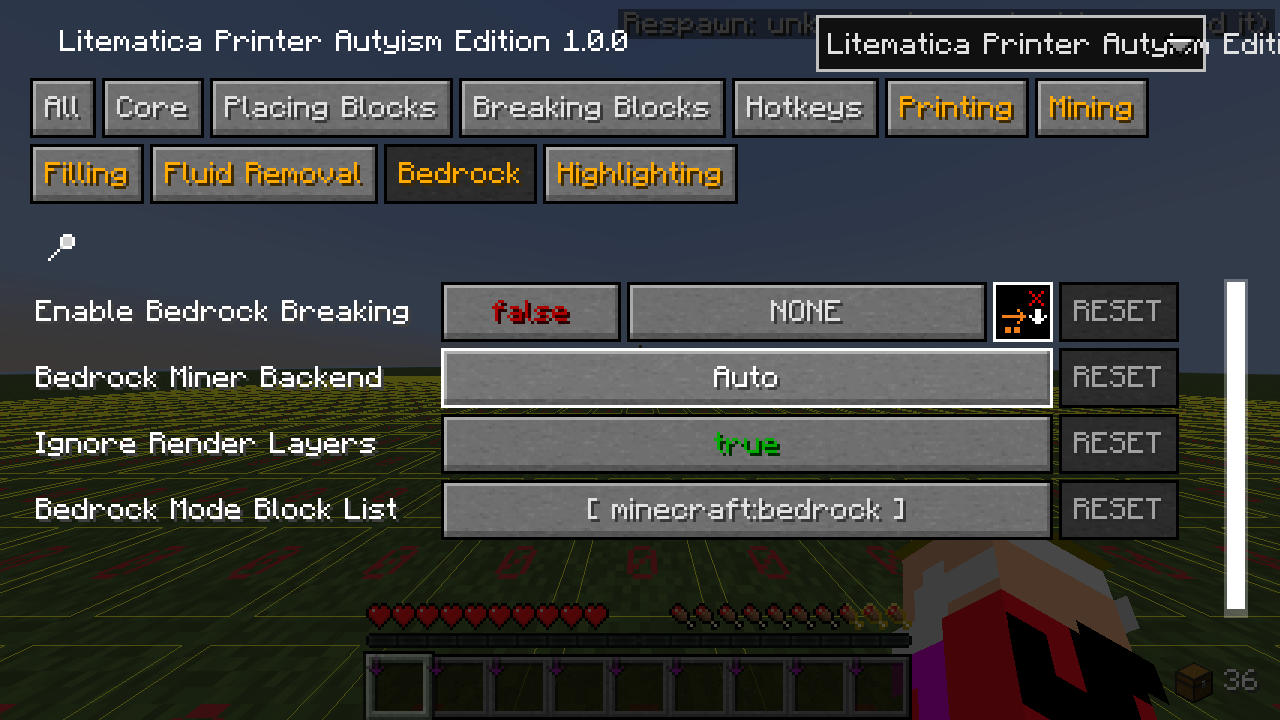
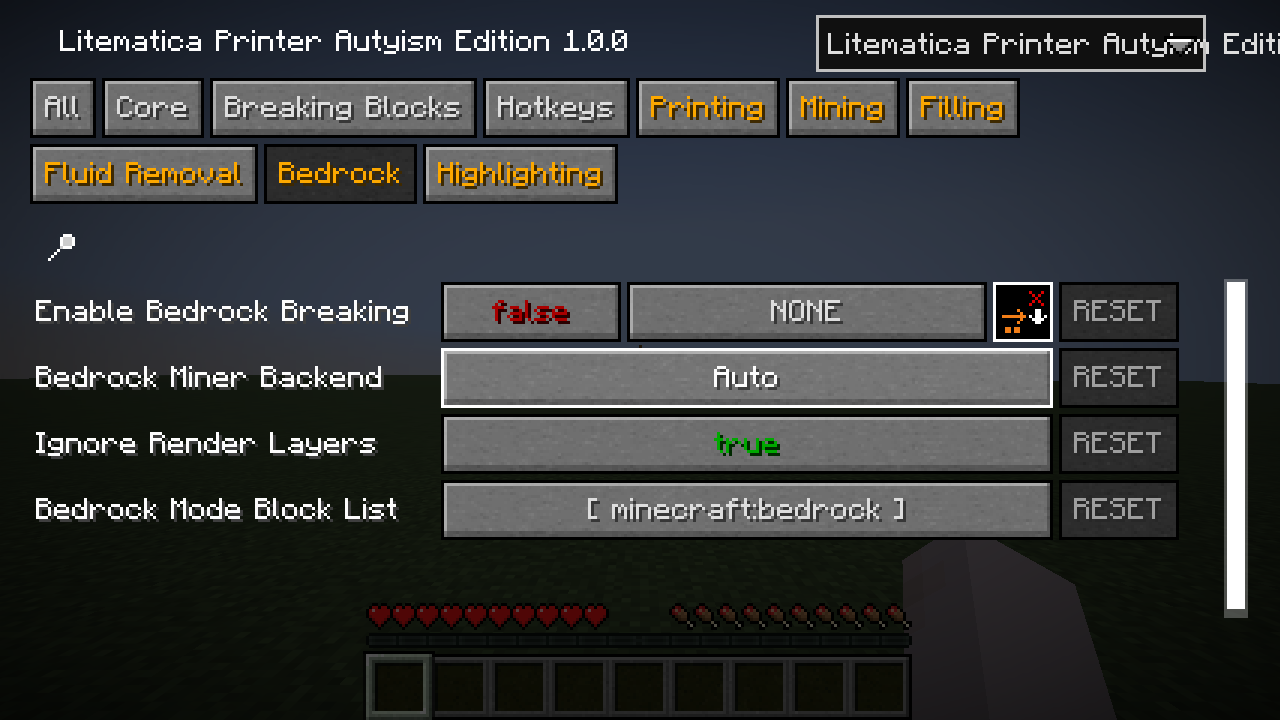
Docs: settings screenshots; settings screenshot test

diff --git a/src/gametest/java/com/autyism/printer/gametest/SettingsShotsGameTest.java b/src/gametest/java/com/autyism/printer/gametest/SettingsShotsGameTest.java
@@ -1,0 +1,62 @@
+package com.autyism.printer.gametest;
+
+import com.autyism.printer.gui.ConfigUi;
+import fi.dy.masa.malilib.gui.GuiListBase;
+import fi.dy.masa.malilib.gui.widgets.WidgetListBase;
+import net.fabricmc.fabric.api.client.gametest.v1.FabricClientGameTest;
+import net.fabricmc.fabric.api.client.gametest.v1.context.ClientGameTestContext;
+import net.fabricmc.fabric.api.client.gametest.v1.context.TestSingleplayerContext;
+
+import java.lang.reflect.Field;
+import java.lang.reflect.Method;
+
+/**
+ * Screenshots of the settings screen (Core, Hotkeys, the end of Printing, Breaking Blocks, Mining) for checking the
+ * layout and for the docs. Only runs when asked for: -Pgt=settings
+ */
+@SuppressWarnings("UnstableApiUsage")
+public final class SettingsShotsGameTest implements FabricClientGameTest {
+    @Override
+    public void runTest(ClientGameTestContext context) {
+        if (!System.getProperty("ale.gt", "").contains("settings")) return;
+        try (TestSingleplayerContext sp = GT.newWorld(context)) {
+            context.waitTicks(20);
+            shot(context, ConfigUi.Tab.CORE, false, "settings-core");
+            shot(context, ConfigUi.Tab.HOTKEYS, false, "settings-hotkeys");
+            shot(context, ConfigUi.Tab.PRINT, true, "settings-printing-end");
+            shot(context, ConfigUi.Tab.BREAK, false, "settings-breaking");
+            shot(context, ConfigUi.Tab.EXCAVATE, false, "settings-mining");
+        } finally {
+            context.runOnClient(c -> c.setScreen(null));
+        }
+    }
+
+    private static void shot(ClientGameTestContext context, ConfigUi.Tab tab, boolean scrollToEnd, String name) {
+        context.runOnClient(c -> {
+            try {
+                Field field = ConfigUi.class.getDeclaredField("tab");
+                field.setAccessible(true);
+                field.set(null, tab);
+            } catch (ReflectiveOperationException e) {
+                throw new AssertionError(e);
+            }
+            c.setScreen(new ConfigUi(null));
+        });
+        context.waitTicks(5);
+        if (scrollToEnd) {
+            context.runOnClient(c -> {
+                try {
+                    Method method = GuiListBase.class.getDeclaredMethod("getListWidget");
+                    method.setAccessible(true);
+                    WidgetListBase<?, ?> list = (WidgetListBase<?, ?>) method.invoke(c.screen);
+                    list.getScrollbar().setValue(list.getScrollbar().getMaxValue());
+                } catch (ReflectiveOperationException e) {
+                    throw new AssertionError(e);
+                }
+            });
+            context.waitTicks(5);
+        }
+        context.takeScreenshot(name);
+        GT.log("[settings] " + name);
+    }
+}
